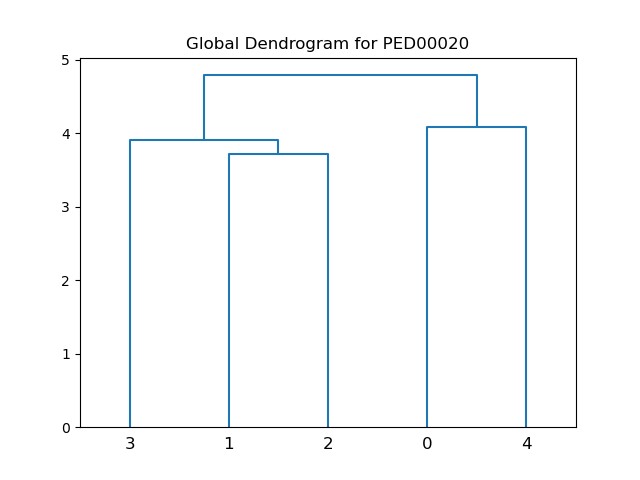
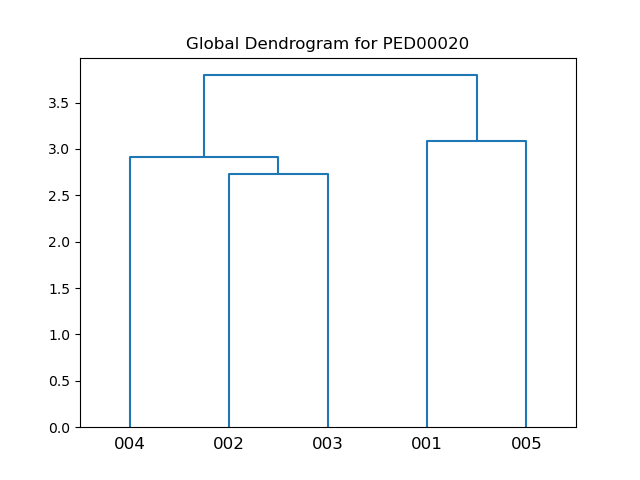
report and images update

diff --git a/report/sections/section_2.tex b/report/sections/section_2.tex
@@ -1,88 +1,68 @@
 \section{Task 2}\label{sec:task2}
 
-The goal of the second task is to implement a software to quantify global differences between ensembles of a PED and, from them, identify the variance level along the sequence. The input of this task are files containing the features of one PED ensemble generated during Task 1.
+The goal of the second task is to implement a tool able to describe the relationship between ensembles of a PED, from global and local points of view. Relationships between different ensembles will be evaluated thanks to PED features. The input are files, each containing ensemble features, computed during Task 1.
 
 \subsection{Ensembles features}
-Relationships between different ensembles will be evaluated thanks to the structural features of a single ensemble that can be extracted starting from features file of task 1.
+For each ensemble, PED features are extracted from the previously computed models features. In details, the obtained features are the following:
 
-At the beginning, the software extracts the features for each ensemble (multiple conformations):
 \begin{itemize}
-\item[-] Radius of gyration of each model in the ensemble. It may happen that an ensemble contains a lower number of conformations with respect to the one with the maximum number and this could cause subsequent alignment problems: for this reason, we check on the array dimension and, if needed, a zero-padding is added.
-\item[-] Secondary structure entropy for each position across ensemble conformations, calculated exploiting its probabilistic definition between each model. 
-\item[-] Median ASA for each position across ensemble's conformations. 
-\item Median RMSD using rotate-translation matrices for each conformation.
-\item[-] Median distance of each pair of equivalent positions. The median values of the columns of conformation distance matrices are considered.
-\item[-] Standard deviation of the distances for each position across all the ensemble's conformations.
+\item[-] \emph{Radius of gyration} (RG) is retrieved for each model. It may happen that an ensemble contains a lower number of conformations with respect to the others. To avoid alignment problems, zero-padding is performed.
+\item[-] \emph{SS entropy} is calculated for each position across ensemble's conformations, exploiting its probabilistic definition.
+\item[-] \emph{Median ASA} is computed for each position across ensemble's conformations.
+\item[-] \emph{Median RMSD} is computed using roto-translation matrices across ensemble's conformations.
+\item[-] \emph{Median distance matrix} is computed calculating median distance for each pair of equivalent positions across ensemble's conformations.
+\item[-] \emph{Standard deviation distance matrix} is computed calculating standard deviation distance for each pair of equivalent positions across ensemble's conformations.
 \end{itemize}
-
 
 \subsection{Global metric}
-The global metric evaluates the distance between ensembles pairs. It takes into account the different nature of the features evaluated in order to provide an accurate measure of dissimilarity.
-This metric returns the sum of partial distances for each feature:
+The global metric aims to provide an accurate measure of dissimilarity between ensembles pairs represented with their features, building an evaluation that takes into account the different nature of the features evaluated. Given two ensemble features vectors, the sum of the following partial distances is returned:
 \begin{itemize}
-\item[-] The absolute difference between mean radius of gyration calculated for the two ensembles (removing the zeros added for the padding).
-\item[-] The Chebyshev distance between the entropies of the two ensembles. It finds the distance as the greatest of their differences along any coordinate dimension.
-\item[-] The Euclidean distance between the median ASA of the two ensembles.
-\item[-] The Euclidean distance between the median RMSD of the two ensembles.
-\item[-] The Cosine distance between the median distance of the two ensembles.
+\item[-] Absolute difference of RG mean values extracted from each feature vector, after zero-padding removal.
+\item[-] Chebyshev distance\footnote{\textbf{Chebyshev distance} : a.k.a maximum metric, is a metric defined on a vector space where the distance between two vectors is the greatest of their differences along any coordinate dimension.} calculated between entropies vectors.
+\item[-] Euclidean distance calculated between median ASA vectors.
+\item[-] Euclidean distance calculated between median RMSD vectors.
+\item[-] Cosine distance calculated between median distance vectors.
 \end{itemize}
 
+Standard deviation distance matrix has not been taken into consideration for the global evaluation, since it is a kind of variability measure for each residue and that does not provide useful information from a global point of view.
 
-Using the global metric just described, the software displays the distances between two ensembles through:
-\begin{itemize}
-\item[-] Heatmap: it calculates the matrix of the distances between the features of the ensembles and then builds and displays the heatmap. The distance between ensembles is highlighted with different colors based on the similarity scale reported on the right. 
-\item[-] Dendrogram: using a linkage matrix and the presented global metric, the dendrogram built combining the most similar ensembles with respect to the calculated features (with a \emph{complete} approach) is plot.
-\end{itemize}
-
-In figures \ref{heatmap} and \ref{dendrogram}, it is possible to visualize respectively the distance and similarity between the five ensembles. It can be observed that the closest ensembles are 001 and 002, also all the ensembles are similar.
+Results of global distances application inside PEDs are provided through an \emph{heatmap} which shows distances between each pair of ensembles thanks to a color-map and a \emph{dendrogram} which exploits a linkage matrix to apply a \emph{complete} linkage approach.
+Figures \ref{heatmap} and \ref{dendrogram} shows respectively distances and similarity relationships between analyzed ensembles. From the heatmap analysis, it is possible to notice that ensembles 002 and 003 are the closest ones, whereas 001 and 002 are the furthest ones. In general, all ensembles seem to be evenly spaced from each other. In addition, a more precise understanding of the spatial distribution can be inferred from the dendrogram, in which two clearly visible sub-clusters are revealed, in detail the first containing 002, 003 and 004 and the second 001 and 005.
 
 \begin{figure}[H]
     \centering
-		\includegraphics[width=\textwidth]{PED00020_heatmap.png}
-		\caption{Heatmap of all the ensembles.}
-		\label{heatmap}
+	\includegraphics[width=\textwidth]{PED00020_heatmap.png}
+	\caption{Heatmap of all the ensembles.}
+	\label{heatmap}
 \end{figure}
-
 \begin{figure}[H]
     \centering
-		\includegraphics[width=\textwidth]{PED00020_dendrogram.png}
-		\caption{Dendrogram of all the ensembles.}
-		\label{dendrogram}
+	\includegraphics[width=\textwidth]{PED00020_dendrogram.png}
+	\caption{Dendrogram of all the ensembles.}
+	\label{dendrogram}
 \end{figure}
 
 
 \subsection{Local metric}
-The local metric evaluates the variability of all the features for each position in the ensembles.
-In order to compute the local variability, it considers the neighbors of the residue under analysis thanks to a window of size 9 on the left and on the right of the current position and, for that, computes a variability score for each analyzed feature from the features vectors corresponding to the window. The scores for each residue are then used to calculate the mean variability value, used for the subsequent plot. In particular, the variability scores provided are the following:
+The local metric evaluates the ensembles features variability for each residue.
+The i-th residue variability is calculated considering a window of 19 (9 before and 9 after) residues around the current one. After extracting the features vectors of those residues, a variability score is calculated independently for each type of feature as follows:
 
 \begin{itemize}
-\item[-] Mean value of the standard deviations calculated among conformational entropies for each position in the window.
-\item[-] Mean value of the standard deviations calculated among conformational accessible surface areas for each residue in the window.
-\item[-] Mean value of the standard deviations calculated among conformational RMSD values for each residue in the window. 
-\item[-] Trimmed mean of the standard deviation of conformations distances for each position in the window. 
+\item[-] Mean window value of the standard deviations calculated among conformational entropies for each residue.
+\item[-] Mean window value of the standard deviations calculated among conformational ASA for each residue.
+\item[-] Mean window value of the standard deviations calculated among conformational RMSD values for each residue.
+\item[-] Trimmed mean\footnote{\textbf{Trimmed mean}: used to to avoid outliers influence.} window value of the standard deviation of conformations distances for each residue.
 \end{itemize}
 
-In the last case, the use of a trimmed mean helps to eliminate the influence of outliers or data points on the tails on the traditional mean. Then it takes the mean of these values with respect to the window around each residual.
+Each variability score is then used to calculate the residue mean variability value. In figure \ref{plot} each residue variability in terms of ensembles' features is shown.
 
 \begin{figure}[H]
     \centering
-		\includegraphics[width=\textwidth]{PED00020_local.png}
-		\caption{Plot of local score.}
-		\label{plot}
+	\includegraphics[width=\textwidth]{PED00020_local.png}
+	\caption{Plot of local score.}
+	\label{plot}
 \end{figure}
 
+Since the graph shows an average value among all the ensembles, it is not possible to make an exhaustive comparison between its behaviour and the structure variability in Pymol images, even if it allows to infer general considerations about disordered content. The measles virus nucleoprotein seems to be quite disordered: in particular, all the ensembles share a central high variability region (that could be associated with one of the local maxima), whereas some of them have another variable region in one of the extremities. Due to the smaller available window on the trailing parts, correspondent scores could be less trusted with respect to the central parts of the protein in which, except ensemble 005, is located the most stable region.
 
-In figure \ref{plot} it is possible to visualize the ensembles' features variation for each residue using the local metric. 
-
-\medskip
-Firstly, it is necessary to underline that the graph shows an average value among all the conformations within an ensemble. Therefore, it is not possible to make a precise comparison between the trend of the curve and the variability of the structure in pymol images. 
-
-\medskip
-Looking at the graph above and taking into consideration the information extracted from the various comparisons in this project, we can observe that the structure of the measles virus nucleoprotein is quite disordered and there are some points where the variability is greater. 
-
-In particular, we can identify two high variability regions, one at the beginning and the other at the end of the local graph. Then there are two main minimum points that correspond to stable regions on the structure. 
-
-This situation can be compared against the Pymol color variation. In fact, the region where there is more variability (higher values) in the local graph corresponds in general to a red region. On the contrary, the minimum points are analogous blue regions in Pymol.
-
-In conclusion, we can observe that along the ensemble structures there are a few stable points and on average the structure is very messy.
-
+The previous analysis can lead to these intuitions but the final protein study should be performed with additional information. Since the protein has the stable region in its center, these residues might be in charge of some functional properties. On the contrary, the most variables regions could not be useful from a functional point of view or could allow the protein to respond to stimuli in different ways.

diff --git a/report/sections/section_1.tex b/report/sections/section_1.tex
@@ -2,13 +2,14 @@ In this report, the main project choices and the results for structural ensemble
 
 \section{Task 1}\label{sec:task1}
 \graphicspath{ {./figures/} }
+
 The goal of the first task is to implement a tool to identify conformational relationships thanks to models structural features within an ensemble. The input is a set of files, each containing the PDB structure of one ensemble, which will be analyzed independently.
 
 \subsection{Single conformation features}
 
 For each conformation, the following structural features are extracted and subsequently saved:
 \begin{itemize}
-\item[-] \emph{Radius of gyration} is computed from the coordinates of each atom and their barycenter.
+\item[-] \emph{Radius of gyration} (RG) is computed from the coordinates of each atom and their barycenter.
 \item[-] \emph{Relative accessible surface area} (ASA) is computed for each residue thanks to DSSP\footnote{\textbf{DSSP}: the values obtained for the conformations within an ensemble are equal. It may happen that the DSSP does not return the ASA value for some residues: for this limitation, a check on the array dimension and, if needed, a zero-padding are performed. }.
 \item[-] \emph{Secondary structure} (SS) is determined for each residue thanks to the Ramachandran regions\footnote{\textbf{SS}: for the first and last residue, for which the value is not computable, `-' is inserted.} associated to Phi and Psi angles. For an easiest subsequent analysis, each value is converted into an integer as reported in table \ref{tab:ss}.
 \item[-] \emph{Distance matrix} contains the pairwise distances between each pair of residues. For an easiest analysis, since it is symmetric, only the linearized version of its upper triangular sub-matrix is considered.
@@ -37,14 +38,14 @@ Left-handed Helix & 4\\
 
 \subsection{Representative conformations}
 In order to extract the representative conformations, the models are clustered due to \emph{K-Medoids} approach and a customized metric function, selecting the optimal number of clusters thanks to Silhouette score.
-\emph{K-Medoids} has been chosen since centroids are selected between the input set points, without generating unseen conformations.
+\emph{K-Medoids} has been chosen since at the end the representative conformations will be medoids selected between the input set points, without generating unseen conformations.
 
 \medskip
-The implemented metric\footnote{\textbf{Metric}: take in input feature vectors of two conformations and compute their distance as sum of partial features distances.} is tailored for each feature set, in order to measure the dissimilarity between models. The distance metrics have been chosen according to the meaning and the behavior of single features. %Scrivere che consideriamo le seguenti cose:
+The implemented metric\footnote{\textbf{Metric}: take in input feature vectors of two conformations and compute their distance as sum of partial features distances.} is tailored for each feature set, in order to measure the dissimilarity between models. The following distance metrics have been chosen according to the meaning and the behaviour of single features:
 \begin{itemize}
 \item[-] Absolute difference between radius of gyration to understand its variation.
 \item[-] Euclidean distance of ASA vectors.
-\item[-] Normalized Hamming distance between SS vectors using a scoring matrix accordingly to their definition and properties. The scoring matrix is reported in table \ref{tab:score}.
+\item[-] Normalized hamming distance between SS vectors using the scoring matrix reported in table \ref{tab:score} and defined accordingly to their definition and properties.
 
 \begin{table}[H]
 \begin{center}
@@ -62,11 +63,10 @@ The implemented metric\footnote{\textbf{Metric}: take in input feature vectors o
 \caption{Scoring matrix Secondary Structure values}~\label{tab:score}
 \end{table}
 
-\item[-] The cosine distance between distance matrix. 
+\item[-] Cosine distance between distance matrix.
 \end{itemize}
 
-In table \ref{tab:silhouette} we report both the optimal number of clusters and the corresponding silhouette scores obtained with the described clustering procedure. 
-Once the representative conformations are extracted as centroids, the software plots a weighted graph, where each node is a representative model and the edge length is proportional to the distance between each pair of conformations according to the metric function; the distance is reported also as correspondent edge label.
+In table \ref{tab:silhouette} we report both the optimal number of clusters and the corresponding silhouette scores obtained with the described clustering procedure for the analyzed ensembles.
 
 \begin{table}[H]
 \begin{center}
@@ -87,6 +87,8 @@ Once the representative conformations are extracted as centroids, the software p
 \end{center}
 \caption{Silhouette values obtained during clustering}~\label{tab:silhouette}
 \end{table}
+
+Afterwards, a weighted graph is built, inside which each node is a representative model with edge length between pairs of nodes proportional to the distance between correspondent pairs of conformations according to the built metric. In figures \ref{model001}, \ref{model002}, \ref{model003}, \ref{model004} and \ref{model005}, built graphs are reported.
 
 \begin{figure}[H]
     \centering
@@ -123,27 +125,31 @@ Once the representative conformations are extracted as centroids, the software p
 		\label{model005}
 \end{figure}
 
-
-In figures \ref{model001}, \ref{model002}, \ref{model003}, \ref{model004} and \ref{model005} the obtained graphs are reported. By running the script several times, a high results variability can be observed.
-This is probably caused by the proximity of the points (represented in the features space) and the random initialization of clustering. The centroids are usually different but found in the same cardinality.
-
-
+A high results variability can be observed, in terms of selected medoids but not in the optimal number of clusters.
+This is probably caused by two main factors:
+\begin{itemize}
+    \item[-] Proximity of the points in the features space.
+    \item[-] Random initialization of medoids during clustering.
+\end{itemize}
 
 \subsection{Pymol image}
-For each ensemble, we decide to generate one Pymol image to visualize the 3D structure of one representative conformation and the variability of each residue in terms of features through the changing of the color. 
-
-As a matter of fact, the generation of an image representating the conformations superimposition would give a too messy result and would not reporting important information. 
-Another limitation has been the computing time needed for the features comparison: indeed, considering the residue variability over all the models, the time needed only for the Pymol image generation is about one hour. For this reason, we have decided to take into consideration only the representative conformations extracted by clustering step for the subsequent analysis since each of these conformations is a good approximation of its cluster.
+A Pymol image is generated to visualize the 3D structure of one representative conformation and the variability of each residue.
+We decided to generate one image for each ensemble, instead of the superimposition of all the conformations, because latter would give a too messy result without any important information.
+In order to reduce the computing time needed to compare the features\footnote{\textbf{Pymol}: the time needed for the Pymol image generation considering the features over all the models is about one hour.}, we have decided to take into consideration only features of representative conformations, since each one of them is a good approximation of its own cluster.
 
 \medskip
-The residue variability is calculated using a metric built by us that considers the neighbors of the residue under analysis thanks to a window of size 9 on the left and on the right of the current position and extract the features vectors of those residues for each considered conformation. 
-The metric then calculates the variability as the sum of the following partial distances:
+The i-th residue variability is calculated using a customized metric, which considers a window of 19 (9 before and 9 after) residues around the current one. After extracting the features vectors of those residues for each considered conformation, the metric calculates the variability as the sum of the following partial distances:
 \begin{itemize}
-\item[-] Standard deviation of ASA values available for each residue is calculated and the mean of them is subsequently calculated to have an average value.
-\item[-] Normalized distance between SS vectors pairs is calculated using the scoring matrix reported in table \ref{tab:ss}.
-\item[-] For each pair of analyzed conformation, the cosine dissimilarity between distance vectors (rows/columns of distance matrix) of corresponding residues are summed.
+\item[-] Standard deviations of ASA values for each residue are calculated and their mean is computed to obtain an average window value.
+\item[-] Normalized hamming distances between SS vectors pairs are calculated using the scoring matrix reported in table \ref{tab:ss}.
+\item[-] Cosine dissimilarities are computed and summed for each pair of analyzed conformations between distance vectors of corresponding residues.
 \end{itemize}
 Note that the radius of gyration is not used since it is not residue-dependent.
+
+\medskip
+A BWR color-map\footnote{\textbf{BWR} : is a color-map that use blue, white and red color to characterize respectively low, mid and high values inside a plot.} is used to highlight which residues own the highest or lowest variability inside each Pymol image.
+Looking at figures \ref{model001p}, \ref{model002p}, \ref{model003p}, \ref{model004p} and \ref{model005p}, it is possible to notice that structures are in general very disordered since contains few well-defined secondary structures, that in these cases are only alpha-helices. This may happen because the entropic high cost of folding. %%???
+Further considerations about the protein structure are provided in the conclusions of this report.
 
 \begin{figure}[H]
     \centering
@@ -179,11 +185,3 @@ Note that the radius of gyration is not used since it is not residue-dependent.
 		\caption{Pymol image of ensemble 005 (model 133).}
 		\label{model005p}
 \end{figure}
-
-
-\medskip
-\medskip
-In Pymol image, the color variability corrispond to red for the residues in the structure with high variability with respect to the features considered, while blue identifies the most stable areas. Also intermediate scenarios are displayed with color shades of red or blue.  
-
-\medskip
-Looking at figures \ref{model001p}, \ref{model002p}, \ref{model003p}, \ref{model004p} and \ref{model005p}, it is possible to see that the visualized structures are very disordered. Due to the entropic high cost of folding, the well-defined structures (e.g. alpha-helix) are not many. %da aggiungere basato sui nuovi grafici

diff --git a/src/PedFeatures.py b/src/PedFeatures.py
@@ -399,7 +399,8 @@ class PedFeatures:
         print('\t- Plotting global dendrogram...')
 
         linkage_matrix = linkage(np.array(self._ped_features), 'complete', metric=self.global_metric)
-        dendrogram(linkage_matrix)
+        labels = [pid.split('e')[1] for pid in self._ped_ids]
+        dendrogram(linkage_matrix, labels=labels)
         plt.title('Global Dendrogram for {}'.format(self._ped_name))
         plt.savefig('{}/{}_dendrogram.png'.format(self._output_folder, self._ped_name))
         plt.show()
@@ -421,7 +422,8 @@ class PedFeatures:
                 dist[j, i] = self.global_metric(self._ped_features[i], self._ped_features[j])
 
         # Generate the heatmap corresponding to the distance matrix
-        seaborn.heatmap(dist)
+        labels = [pid.split('e')[1] for pid in self._ped_ids]
+        seaborn.heatmap(dist, xticklabels=labels, yticklabels=labels)
         plt.title('Global Heatmap for {}'.format(self._ped_name))
         plt.savefig('{}/{}_heatmap.png'.format(self._output_folder, self._ped_name))
         plt.show()
@@ -465,10 +467,10 @@ class PedFeatures:
         std_dist = np.array(std_dist, dtype='float64')
 
         # For each feature, a variability vector is determined (one value for each residue)
-        total_entropy = []
-        total_med_asa = []
-        total_med_rmsd = []
-        total_std_dist = []
+        var_entropy = []
+        var_med_asa = []
+        var_med_rmsd = []
+        var_std_dist = []
 
         # Scanning each element of the sequence and for it, consider a window for the variability computation
         window_size = 9
@@ -478,19 +480,19 @@ class PedFeatures:
 
             # Determine the mean variability within the window around the residue of interest
             # for entropy, med asa and med rmsd
-            total_entropy.append(np.mean(np.std(entropy[:, start:end], axis=0)))
-            total_med_asa.append(np.mean(np.std(med_asa[:, start:end], axis=0)))
-            total_med_rmsd.append(np.mean(np.std(med_rmsd[:, start:end], axis=0)))
+            var_entropy.append(np.mean(np.std(entropy[:, start:end], axis=0)))
+            var_med_asa.append(np.mean(np.std(med_asa[:, start:end], axis=0)))
+            var_med_rmsd.append(np.mean(np.std(med_rmsd[:, start:end], axis=0)))
 
             # Determine the trimmed mean variability within the window around the residue of interest for std dist
             current_dist = []
             for i in range(start, end):
                 current_dist.append(scipy.stats.trim_mean(np.std(std_dist[:, :, i], axis=0), proportiontocut=0.2))
-            total_std_dist.append(np.mean(current_dist))
+            var_std_dist.append(np.mean(current_dist))
 
         # Stack the features variability in the columns of a matrix and compute the mean by column,
         # in order to have a single variability value for each residue
-        p = np.stack((total_entropy, total_med_asa, total_med_rmsd, total_std_dist), axis=1)
+        p = np.stack((var_entropy, var_med_asa, var_med_rmsd, var_std_dist), axis=1)
         val = np.mean(p, axis=1)
 
         # Plot results and save them

diff --git a/src/ModelFeatures.py b/src/ModelFeatures.py
@@ -477,7 +477,9 @@ class ModelFeatures:
 
         # Distance matrix (cosine distance)
         sum_dist = 0.0
+        # Scan the residues
         for residue in range(ss.shape[1]):
+            # For each pair of conformations
             for k in range(dist.shape[0]):
                 for h in range(k, dist.shape[0]):
                     sum_dist += cosine(dist[k, residue], dist[h, residue])
@@ -552,4 +554,9 @@ class ModelFeatures:
 
         # Showing Pymol image
         pymol_image = Image.open("{}/{}_pymol.png".format(self._output_folder, self._id))
-        pymol_image.show()
+
+        fig, axes = plt.subplots()
+        axes.imshow(pymol_image)
+        axes.set_xticks([])
+        axes.set_yticks([])
+        plt.show()
